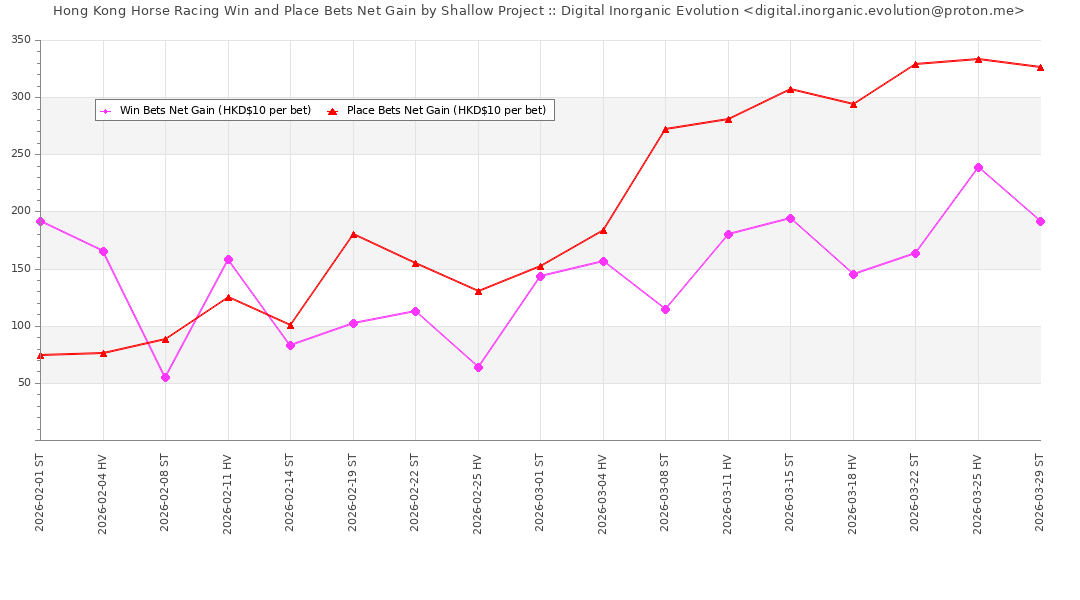
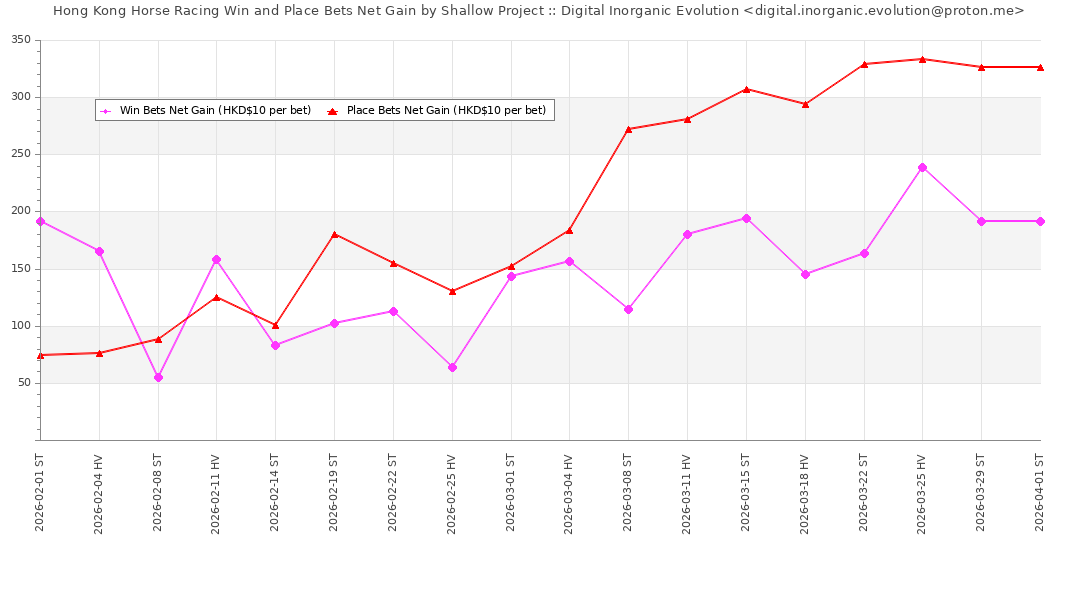
2026/04/01 Predictions

diff --git a/index.html b/index.html
@@ -182,6 +182,69 @@ The survival comparison assumes an energy consumption per hunting of HKD $10 eac
 </tr>
 </thead>
 <tbody>
+<tr><td>2026-04-01</td><td>1</td><td> /  / </td><td></td>
+<td></td>
+<td></td>
+<td></td>
+<td  bgcolor=Beige >3</td>
+<td  bgcolor=Lavender >3</td>
+<td>0</td><td>0</td></tr>
+<tr><td>2026-04-01</td><td>2</td><td> /  / </td><td></td>
+<td></td>
+<td></td>
+<td></td>
+<td  bgcolor=Beige >6</td>
+<td  bgcolor=Lavender >3</td>
+<td>0</td><td>0</td></tr>
+<tr><td>2026-04-01</td><td>3</td><td> /  / </td><td></td>
+<td></td>
+<td></td>
+<td></td>
+<td  bgcolor=Beige >4</td>
+<td  bgcolor=Lavender >4</td>
+<td>0</td><td>0</td></tr>
+<tr><td>2026-04-01</td><td>4</td><td> /  / </td><td></td>
+<td></td>
+<td></td>
+<td></td>
+<td  bgcolor=Beige >1</td>
+<td  bgcolor=Lavender >2</td>
+<td>0</td><td>0</td></tr>
+<tr><td>2026-04-01</td><td>5</td><td> /  / </td><td></td>
+<td></td>
+<td></td>
+<td></td>
+<td  bgcolor=Beige >2</td>
+<td  bgcolor=Lavender >5</td>
+<td>0</td><td>0</td></tr>
+<tr><td>2026-04-01</td><td>6</td><td> /  / </td><td></td>
+<td></td>
+<td></td>
+<td></td>
+<td  bgcolor=Beige >3</td>
+<td  bgcolor=Lavender >3</td>
+<td>0</td><td>0</td></tr>
+<tr><td>2026-04-01</td><td>7</td><td> /  / </td><td></td>
+<td></td>
+<td></td>
+<td></td>
+<td  bgcolor=Beige >6</td>
+<td  bgcolor=Lavender >10</td>
+<td>0</td><td>0</td></tr>
+<tr><td>2026-04-01</td><td>8</td><td> /  / </td><td></td>
+<td></td>
+<td></td>
+<td></td>
+<td  bgcolor=Beige >4</td>
+<td  bgcolor=Lavender >4</td>
+<td>0</td><td>0</td></tr>
+<tr><td>2026-04-01</td><td>9</td><td> /  / </td><td></td>
+<td></td>
+<td></td>
+<td></td>
+<td  bgcolor=Beige >2</td>
+<td  bgcolor=Lavender >2</td>
+<td>0</td><td>0</td></tr>
 <tr><td>2026-03-29</td><td>1</td><td>1 / 5 / 10</td><td>34.00</td>
 <td>15.50</td>
 <td>18.00</td>
@@ -1384,7 +1447,7 @@ The survival comparison assumes an energy consumption per hunting of HKD $10 eac
 <p>
 <a href="https://github.com/Digital-Inorganic-Evolution/Digital-Inorganic-Evolution.github.io/commits/main/" target="_blank">Check Commits on GitHub</a>
 <p>
-<h4>Generated at HKT 2026-03-31 06:26:53</h4>
+<h4>Generated at HKT 2026-04-01 17:55:50</h4>
 	
 <script src="https://code.jquery.com/jquery-3.7.1.min.js"></script>
 <script type="text/javascript" src="https://cdn.datatables.net/2.3.7/js/dataTables.min.js"></script>  
